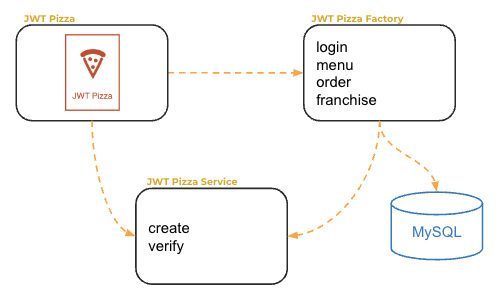
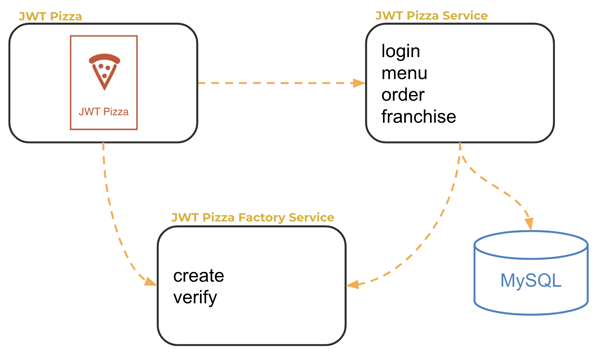
cleanup(integration testing)

diff --git a/instruction/unitTesting/unitTesting.md b/instruction/unitTesting/unitTesting.md
@@ -1,10 +1,10 @@
-# Deliverable ⓷: Unit testing
+# Unit testing
 
-![course overview](../courseOverview.png)
-
-Now that you have the JWT Pizza Service in your hands you can start to assure its quality by writing unit tests. Once you have your tests written, you will then use GitHub Actions to run your tests whenever a commit is made to your fork of the repository. If during the automatic execution of the test, the coverage requirements of your tests do not meet the required thresholds, then an error is generated.
+Now that you have the JWT Pizza Service in your hands you can start to assure its quality by writing unit tests. As part of your testing you will generate a coverage report.If the coverage requirements of your tests do not meet the required thresholds, then an error is generated.
 
 If you haven't already done so, make sure you fork the [jwt-pizza-service](../jwtPizzaService/jwtPizzaService.md) repository and clone it to your development environment.
+
+Within your fork of the jwt-pizza-service repository, follow the pervious instruction and install the [Jest](../jest/jest.md) testing framework.
 
 ```sh
 npm install -D jest supertest
@@ -21,7 +21,7 @@ In order to test service endpoints you need to decompose the creation of the Exp
 
 ![](../serviceTesting/endpointRequests.png)
 
-This is already done in `jwt-pizza-service` and so you don't need to worry about it, but you should clearly understand the implications of the design.
+This is already done in `jwt-pizza-service` and so you don't need to worry about it, but you should clearly understand the implications of the pattern.
 
 ## Coverage
 
@@ -34,7 +34,7 @@ Add the Jest config file, `jest.config.json`, so coverage would be turned on.
 }
 ```
 
-We request to different coverage reports to be generated. The `text` report generates a summary that is output to the console window. The `json-summary` report is created in the `coverage` directory and contains a JSON representation of the coverage information.
+This requests the generation of different coverage reports. The `text` report generates a summary that is output to the console window. The `json-summary` report is created in the `coverage` directory and contains a JSON representation of the coverage information.
 
 Note that the `.gitignore` file ignores the `coverage` directory so that the resulting coverage reports don't get added to GitHub.
 

diff --git a/instruction/modules.md b/instruction/modules.md
@@ -18,7 +18,7 @@
 - 🔵 [GitHub Pages](gitHubPages/gitHubPages.md)
 - ☑ 🔵 [⓵ Manual deployment: JWT Pizza](deliverable1ManualDeploy/deliverable1ManualDeploy.md)
 - 🚧 [Automation](automation/automation.md)
-- 🚧 [Continuous integration](continuousIntegration/continuousIntegration.md)
+- 🚧 [Continuous integration (CI)](continuousIntegration/continuousIntegration.md)
 - 🚧 [GitHub Actions](gitHubActions/gitHubActions.md)
 - ☑ 🔵 [⓶ Automated deployment: JWT Pizza](deliverable2AutomatedDeploy/deliverable2AutomatedDeploy.md)
 
@@ -28,15 +28,15 @@
 - 🚧 [Testing variations](testingVariations/testingVariations.md)
 - 🔵 [Coverage](coverage/coverage.md)
 - ☑ 🔵 [Jest](jest/jest.md)
-- ☑ 🔵 [TDD](tdd/tdd.md)
+- ☑ 🔵 [Test driven development (TDD)](tdd/tdd.md)
 - ☑ 🔵 [Service testing](serviceTesting/serviceTesting.md)
 - ☑ 🔵 [Lint](lint/lint.md)
 - ☑ ❌ [Mocking](mocking/mocking.md)
 - 🚧 [Dependency injection](dependencyInjection/dependencyInjection.md)
 - 🔵 [Integration testing](integrationTesting/integrationTesting.md)
 - ☑ 🔵 [JWT Pizza Service](jwtPizzaService/jwtPizzaService.md)
-- 🔵 [⓷ Unit testing: JWT Pizza Service](deliverable3UnitTesting/deliverable3UnitTesting.md)
-- 🔵 ☑ [⓷ Unit testing - CI: JWT Pizza Service](deliverable3Ci/deliverable3Ci.md)
+- 🔵 [Unit testing](unitTesting/unitTesting.md)
+- 🔵 ☑ [⓷ Unit testing - JWT Pizza Service](deliverable3Ci/deliverable3Ci.md)
 - 🔵 [UI testing](uiTesting/uiTesting.md)
 - ☑ 🔵 [Playwright](playwright/playwright.md)
 - 🚧 ☑ 🔵 [⓸ UI test: JWT Pizza](deliverable4UiTesting/deliverable4UiTesting.md)

diff --git a/instruction/integrationTesting/integrationTesting.md b/instruction/integrationTesting/integrationTesting.md
@@ -14,7 +14,7 @@ We previously briefly introduced the concept of integration testing. Let's take 
 
 ![component overview](componentOverview.png)
 
-An obvious candidate for integration testing is to assure the quality of the integration between the `jwt-pizza` and `jwt-pizza-service` code. Here are some of the options:
+An obvious candidate for integration testing is to assure the quality of the integration between the `jwt-pizza` and `jwt-pizza-service` code. Here are the options:
 
 1. **None** - Don't do integration testing. This has some appeal. It means the frontend and backend teams can develop the application completely independent of each other. The frontend can build functionality that is still in the design phase on the backend. The test setup is easier in the sense that you don't need to run a backend at all. However, the benefits probably don't outweigh the advantages. Additionally, just because we mock out the coupling between the frontend and backend doesn't mean that you have removed the coupling. You have just hidden a whole class of bugs that the mocks may be hiding.
 1. **jwt-pizza and jwt-pizza-service** - Integrate the testing of the frontend and the backend, but mock out the pizza factory service and the database seems like an obvious choice. With a mocked out database, the performance characteristics of the integration test should be excellent and we get a more realistic representation of the performance of the frontend/backend communication. We also will immediately know if we introduce any bugs in the service endpoints.

diff --git a/instruction/deliverable3Ci/deliverable3Ci.md b/instruction/deliverable3Ci/deliverable3Ci.md
@@ -1,6 +1,8 @@
-# Deliverable ⓷: Unit testing - CI
+# Deliverable ⓷: Backend testing
 
-Now that you have added linting and created unit tests for the **jwt-pizza-service**, you are ready to implement the continuous integration (CI) process that will validate the code and calculate coverage on every commit.
+![course overview](../courseOverview.png)
+
+Now that you have added linting and created unit tests for the **jwt-pizza-service**, you are ready to implement the continuous integration (CI) process that will validate the code and calculate coverage on every commit. This will complete your work on this deliverable.
 
 ## Create the GitHub Action workflow
 

diff --git a/instruction/testingVariations/testingVariations.md b/instruction/testingVariations/testingVariations.md
@@ -39,3 +39,11 @@ Once we started writing unit, integration, and end to end tests, you could make 
 ### Beta testing
 
 ### Black and white box testing
+
+## Our plan
+
+For this course we will do the following:
+
+1. Integration and unit testing for the `jwt-pizza-service` and the database. This will make actual calls from the service to the MySQL database.
+1. Unit testing for `jwt-pizza`. This will mock out all calls to the external services.
+1. End to end, load, and penetration testing on the deployed production system.
